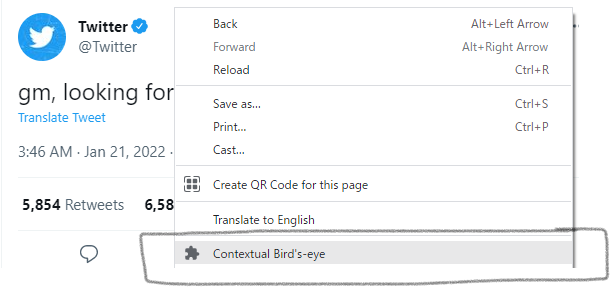
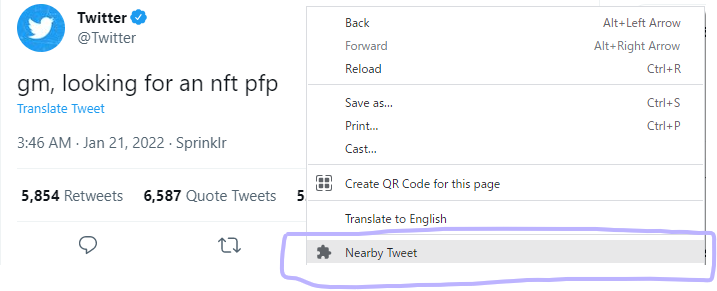
update README

diff --git a/src/background.js b/src/background.js
@@ -2,13 +2,13 @@ var unit = "Date";
 var pm = "1";
 
 // Init
-chrome.browserAction.setBadgeText({text:String(pm + unit[0])});
+chrome.browserAction.setBadgeText({ text: String(pm + unit[0]) });
 
 // Receive $unit and $pm from popup.js
-var setRange = function(unit_, pm_){
+var setRange = function (unit_, pm_) {
     unit = unit_;
     pm = pm_;
-    chrome.browserAction.setBadgeText({text:String(pm + unit[0])});
+    chrome.browserAction.setBadgeText({ text: String(pm + unit[0]) });
 }
 
 // Send $unit and $pm to popup.js
@@ -17,11 +17,11 @@ var setRange = function(unit_, pm_){
 // }
 
 // Send $unit and $pm from background.js to content.js
-const onClick = () => (_, tab) => chrome.tabs.sendMessage(tab.id, {message: String(unit + ',' + pm)});
+const onClick = () => (_, tab) => chrome.tabs.sendMessage(tab.id, { message: String(unit + ',' + pm) });
 
 chrome.contextMenus.create({
-    "title" : "Contextual Bird's-eye",
-    "type"  : "normal",
-    "contexts" : ["all"],
-    "onclick" : onClick()
+    "title": "Nearby Tweet",
+    "type": "normal",
+    "contexts": ["all"],
+    "onclick": onClick()
 });

diff --git a/README_ja.md b/README_ja.md
@@ -7,15 +7,15 @@
 
 ## 使い方
 1. ツイートをクリックして選択する
-2. 右クリックしてメニューから「Contextual Bird's-eye」オプションを選択する
+2. 右クリックしてメニューから「Nearby Tweet」オプションを選択する
 
-![capture](https://raw.githubusercontent.com/schifzt/nearby_tweet/master/assets/capture1.png)
+![capture](assets/capture1.png)
 
 拡張機能のアイコンをクリックするとポップアップが開く
 
 開いたポップアップから検索期間を設定できる
 
-![capture](https://raw.githubusercontent.com/schifzt/nearby_tweet/master/assets/capture2.png)
+![capture](assets/capture2.png)
 
 ## インストール方法
 1. このページの「Download zip」をクリックしてダウンロードする

diff --git a/README.md b/README.md
@@ -7,7 +7,7 @@ An extension for Google Chrome to search nearby tweets quickly within a specific
 
 ## Usage
 1. Select a tweet.
-2. Right click on the tweet and select a "Contextual Bird's-eye" option.
+2. Right click on the tweet and select a "Nearby Tweet" option.
 
 ![capture](assets/capture1.png)
 
